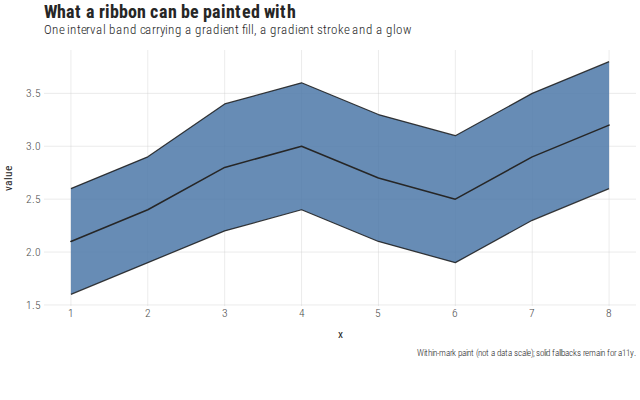
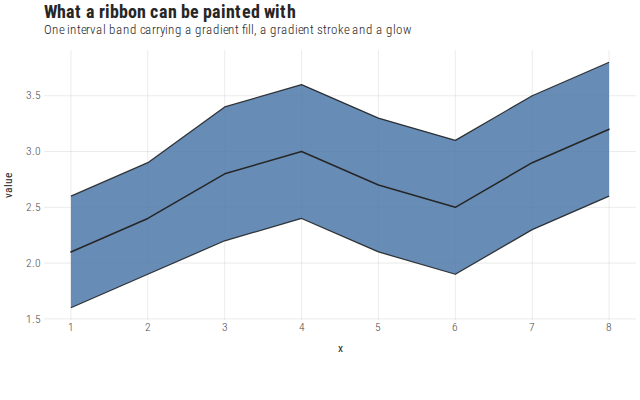
fix(skill): restrict chart captions to source credits and legal notes (#1949)
Agents treated labs.caption as a place for commentary, caveats, and chart narration. Tighten every surface that teaches caption use: skill instructions, lab reference, agent guide, eval prompt, public Labs reference, and the JSON Schema description. Remove the caveat caption from the ribbon paint example.

diff --git a/tests/evals/prompt.ts b/tests/evals/prompt.ts
@@ -48,7 +48,7 @@ GRAMMAR CHEAT-SHEET
 - Coord: {"type": "flip"} makes horizontal charts (still map x=category, y=value). A post-stat coordinate transform is {"type":"transform","x"?: {"transform":"identity"|"log10"|"sqrt","limits"?: [min,max],"reverse"?: bool,"expand"?: bool},"y"?: same,"clip"?: bool}. Fixed physical data-unit lengths use {"type":"fixed","ratio"?: positiveNumber}; omit ratio for equal x/y units and never combine fixed coordinates with free facet scales. Coordinate transforms preserve stat inputs; scale transforms do not.
 - Position scales: {"x"|"y": {"type": "linear"|"log"|"time"|"band", "parse"?, "temporalKind"?: "date"|"datetime", "timezone"?, "dateBreaks"?, "dateMinorBreaks"?, "dateLabels"?, "locale"?, "weekStart"?, "domain"?, "nice"?, "zero"?}}. Ordinary ISO dates, four-digit year strings, year-months, and year-quarters infer time without an explicit scale. Calendar intervals are strings such as "2 weeks" or "10 years". Ambiguous ordered dates require a closed parse name such as "dmy" or "mdy". Use "band" when year-like strings are identifiers. Never preprocess dates into indexes.
 - Color/fill scales: {"color"|"fill": {"type": "ordinal"|"sequential", "range"?}}. Use "log" only for positive quantitative fields and "sequential" only for quantitative color/fill.
-- Labs: {"title", "subtitle", "caption", "x", "y", "color", "fill"} — plain strings.
+- Labs: {"title", "subtitle", "caption", "x", "y", "color", "fill"} — plain strings. A caption is only for a source credit or required legal note; omit it otherwise. Never use it for commentary or chart narration.
 - Only map fields that exist in the DataProfile, with their exact names.
 
 REFUSAL CONTRACT

diff --git a/apps/docs/src/routes/reference/labs/+page.svelte b/apps/docs/src/routes/reference/labs/+page.svelte
@@ -32,7 +32,7 @@
   const mergeExample = `<GGPlot data={rows} aes={{ x: "quarter", y: "sales", color: "region" }}>
   <GeomCol />
   <Labs title="Sales" x="Quarter" />
-  <Labs color="Region" caption="Internal" />
+  <Labs color="Region" caption="Source: internal ledger" />
   <!-- keyed merge: color joins; a second title would win and warn -->
 </GGPlot>`;
 </script>
@@ -44,6 +44,11 @@
     (axes and legends). <code>&lt;Labs&gt;</code> is a declaration-only child of
     <code>&lt;GGPlot&gt;</code> — it emits no markup and registers a live
     <code>labs</code> layer. Without a plot ancestor it is inert.
+  </p>
+  <p>
+    A caption is for a source credit or required legal note. Omit it unless
+    attribution or a required disclaimer is needed; never use it for commentary,
+    chart narration, or caveats.
   </p>
 
   <h2 id="props">Props</h2>
@@ -63,7 +68,10 @@
     </div>
     <div>
       <dt id="prop-caption"><code>caption</code></dt>
-      <dd>Small caption under the plot.</dd>
+      <dd>
+        Source credit or required legal note. Omit unless attribution or a
+        required disclaimer is needed.
+      </dd>
     </div>
     <div>
       <dt id="prop-x"><code>x</code></dt>

diff --git a/scripts/llms-guide/agents.ts b/scripts/llms-guide/agents.ts
@@ -61,6 +61,12 @@ Apply a relevant \`fix.example\` at its path and check again. Read warnings
 about data, scales, and chart quality against the user's intent. Then open
 the SVG and inspect labels, axes, marks, and the story the chart tells.
 
+## Labels and captions
+
+A title states the chart's message. Use a caption only for a source credit or
+required legal note; omit it otherwise. Do not use a caption for commentary,
+chart narration, caveats, or notes from the build process.
+
 The [error catalog](/guide/errors), [advisories](/guide/advisories), and
 [CLI reference](/reference/cli) explain the machine-readable feedback.
 The schema is at [/schema/v0.json](/schema/v0.json); the documentation index

diff --git a/packages/spec/src/schema-decls-guides-theme.ts b/packages/spec/src/schema-decls-guides-theme.ts
@@ -363,7 +363,12 @@ export const GuidesThemeDecls = {
     {
       title: Type.Optional(Type.String({ description: "Plot title." })),
       subtitle: Type.Optional(Type.String({ description: "Plot subtitle, under the title." })),
-      caption: Type.Optional(Type.String({ description: "Small caption under the plot." })),
+      caption: Type.Optional(
+        Type.String({
+          description:
+            "Source credit or required legal note. Omit unless attribution or a required disclaimer is needed; never use it for commentary or chart narration.",
+        }),
+      ),
       x: Type.Optional(
         Type.String({
           description:

diff --git a/examples/ribbon/paint/spec.ts b/examples/ribbon/paint/spec.ts
@@ -44,7 +44,6 @@ export default defineExample(
       subtitle: "One interval band carrying a gradient fill, a gradient stroke and a glow",
       x: "x",
       y: "value",
-      caption: "Within-mark paint (not a data scale); solid fallbacks remain for a11y.",
     })
     .spec(),
 );

diff --git a/examples/ribbon/paint/Example.svelte b/examples/ribbon/paint/Example.svelte
@@ -47,7 +47,6 @@
     subtitle="One interval band carrying a gradient fill, a gradient stroke and a glow"
     x="x"
     y="value"
-    caption="Within-mark paint (not a data scale); solid fallbacks remain for a11y."
   />
   <Inspect mode="x" pin />
 </GGPlot>

diff --git a/packages/skill/references/composition-surfaces.md b/packages/skill/references/composition-surfaces.md
@@ -185,10 +185,12 @@ channel). `<GuideLegend channel="color" position="bottom"/>` assembles
   spec type is re-exported from `@ggts-sh/svelte` as `LabsSpec`.
   Give each text field one role: title carries the chart's message or subject;
   optional subtitle carries measure, scope, period, or units; caption carries
-  only a unique source or caveat. Keep adjacent disclosures, axis titles,
-  subtitle content, and hedging prose out of the caption. Default tooltips and
-  humanized axis/legend titles also read from `labs`, so concise field labels
-  improve both chart chrome and tooltip content.
+  only a source credit or required legal note. Omit the caption unless
+  attribution or a required disclaimer is needed. Keep adjacent disclosures,
+  axis titles, subtitle content, and hedging prose out of the caption; never
+  use it for commentary, chart narration, or notes from the build process.
+  Default tooltips and humanized axis/legend titles also read from `labs`, so
+  concise field labels improve both chart chrome and tooltip content.
 
 ```svelte fragment
 <GGPlot

diff --git a/packages/skill/SKILL.md b/packages/skill/SKILL.md
@@ -90,6 +90,11 @@ is wrong and must never appear in issues, docs, or comments.
 
 - **data**: `{"values": [rows]}`, `{"columns": {name: [...]}}`, or
   `{"name": "dataset"}` (resolved from `spec.datasets` or runtime data).
+- **labs**: title, subtitle, caption, and per-aesthetic axis/legend titles.
+  A title states the chart's message. A subtitle carries measure, scope,
+  period, or units. Use a caption only for a source credit or required legal
+  note; omit it otherwise. Never use a caption for commentary, chart
+  narration, caveats, or notes from the build process.
 - **mark `layers[]`** draw in order — later marks on top (z-order).
 - Geom defaults: bar → count+stack, histogram → bin+stack, col/area →
   identity+stack, boxplot → boxplot+dodge, violin → ydensity+dodge,

diff --git a/.changeset/rare-caption-guidance.md b/.changeset/rare-caption-guidance.md
@@ -1,0 +1,5 @@
+---
+"@ggts-sh/skill": patch
+---
+
+Captions are only for source credits or required legal notes. The skill, agent guide, public reference, and eval prompt direct agents to omit captions unless attribution or a required disclaimer is needed. Agents never use captions for commentary or chart narration. The JSON Schema caption description states the same limit.
